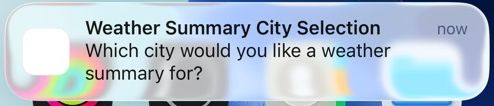
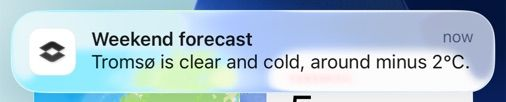
docs(mobile): real push screenshots

diff --git a/apps/mobile/README.md b/apps/mobile/README.md
@@ -12,6 +12,10 @@ workspaces, settings and notifications.
 | --- | --- | --- | --- |
 | ![Sessions](docs/screenshots/ios-5-sessions.jpg) | ![Question](docs/screenshots/ios-6-question.jpg) | ![Settings](docs/screenshots/ios-7-settings.jpg) | ![Android settings](docs/screenshots/android-6-settings.jpg) |
 
+| A push from the agent | Tapping it opens the session |
+| --- | --- |
+| ![Notification](docs/screenshots/ios-8-notification.jpg) | ![Opened from the push](docs/screenshots/ios-9-opened-from-push.jpg) |
+
 ## Accounts
 
 - **Sign in through the web.** The app opens `<server>/native-sign-in` in the
